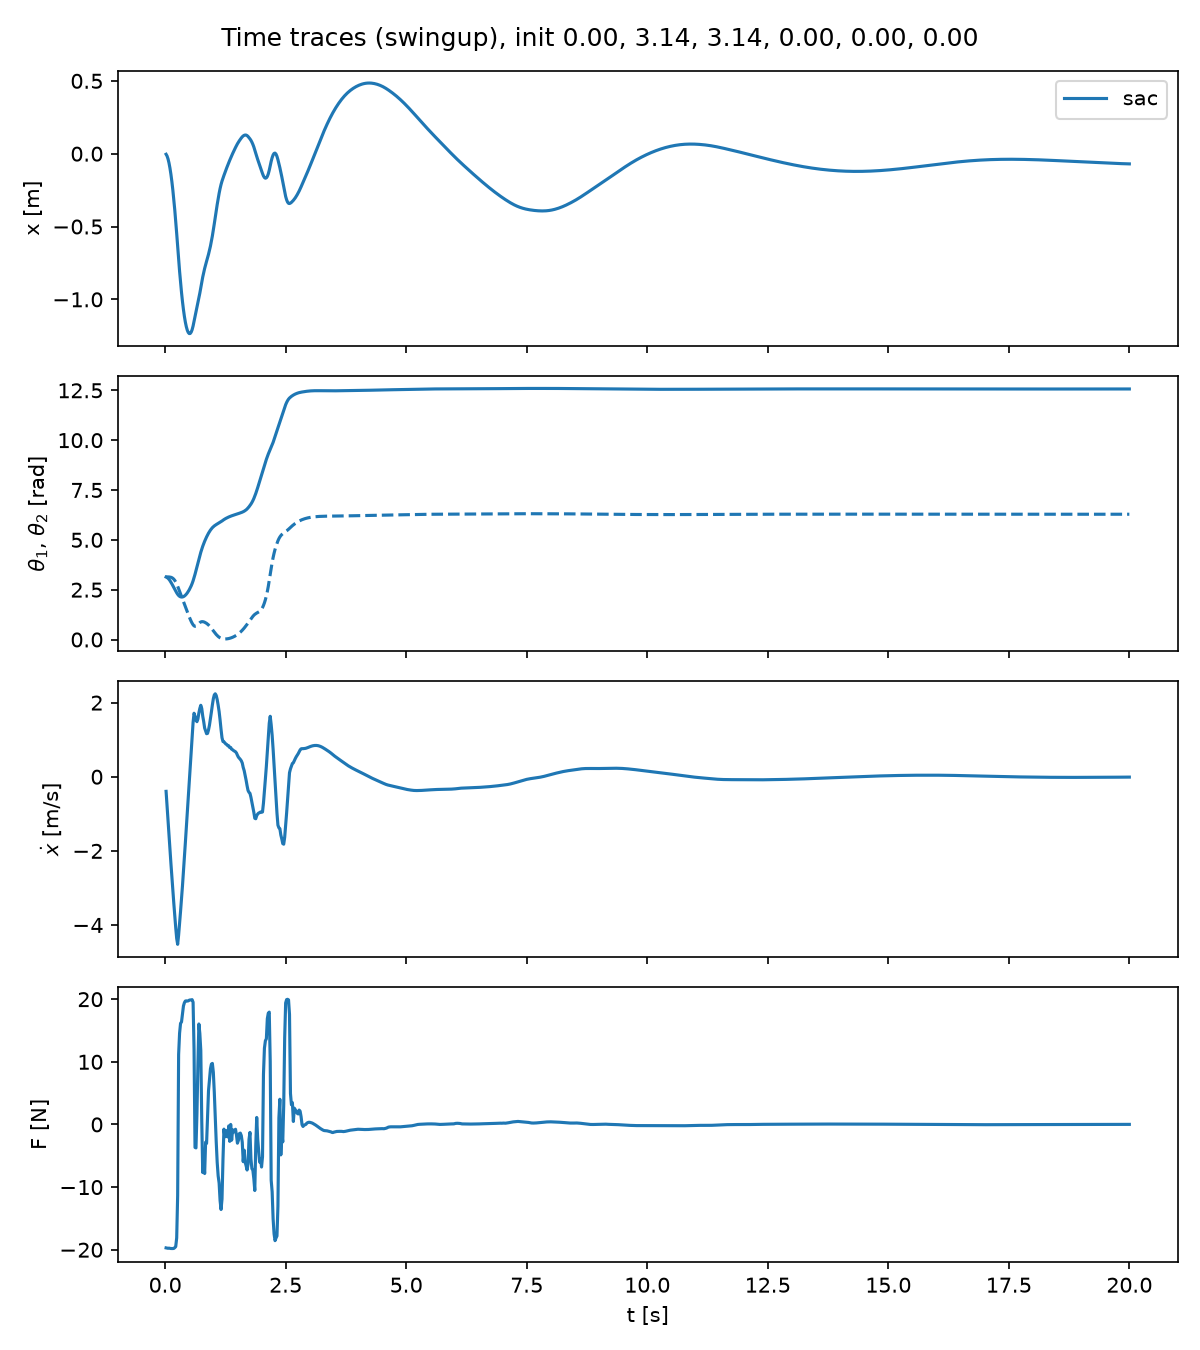
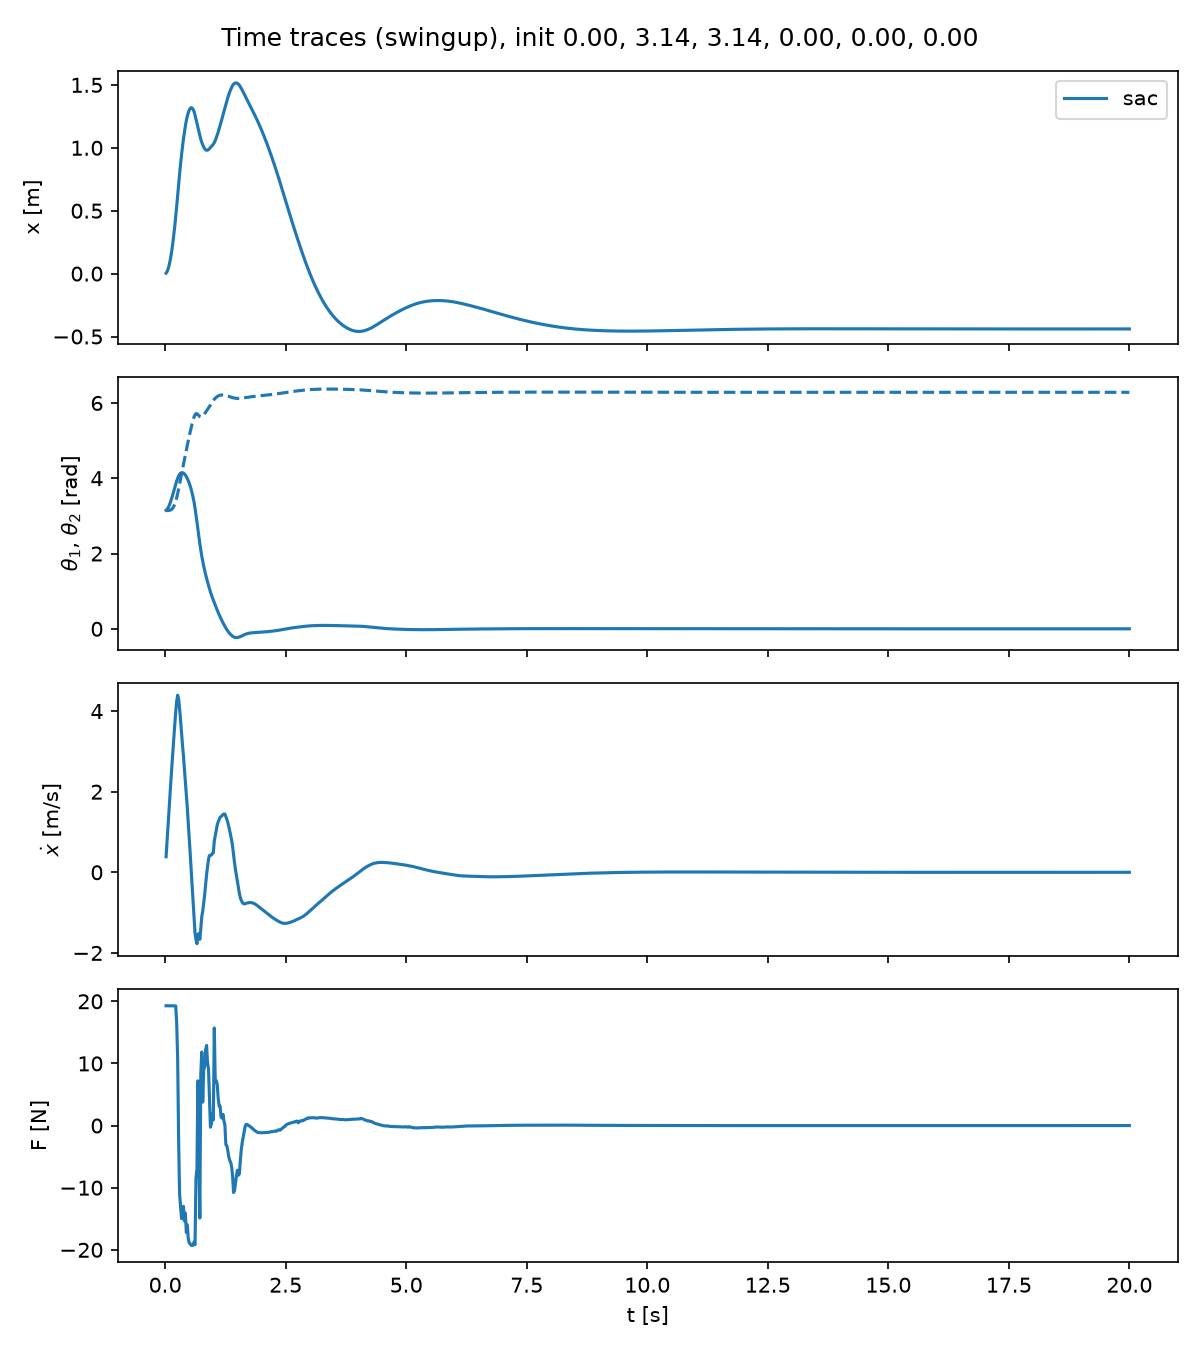
Swing-up solved on all seeds: gSDE (seed 0), gSDE+gradient_steps 2 (seed 2); optimizer loop documented

diff --git a/scripts/train_sac.py b/scripts/train_sac.py
@@ -49,6 +49,9 @@ def main() -> None:
     parser.add_argument("--timesteps", type=int, default=None)
     parser.add_argument("--seed", type=int, default=0)
     parser.add_argument("--randomize", action="store_true")
+    parser.add_argument("--use-sde", action="store_true", help="gSDE exploration (use with SAC)")
+    parser.add_argument("--target-entropy", type=float, default=None, help="override SAC entropy target (auto by default)")
+    parser.add_argument("--gradient-steps", type=int, default=1, help="optimizer updates per env step (update-to-data ratio)")
     parser.add_argument("--velocity-penalty", type=float, default=None)
     parser.add_argument("--episode-steps", type=int, default=None)
     parser.add_argument("--init-from", type=str, default=None, help="checkpoint dir to fine-tune from (model.zip + vecnormalize.pkl)")
@@ -81,15 +84,22 @@ def main() -> None:
         )
     else:
         vec_env = VecNormalize(SubprocVecEnv(env_fns, start_method="spawn"))
-        model = SAC(
-            "MlpPolicy",
-            vec_env,
+        sac_kwargs = dict(
+            policy="MlpPolicy",
+            env=vec_env,
             seed=args.seed,
             device="cpu",
             policy_kwargs=dict(net_arch=NET_ARCH),
             tensorboard_log=str(pathlib.Path("results/tb")),
             verbose=1,
         )
+        if args.use_sde:
+            sac_kwargs.update(use_sde=True, use_sde_at_warmup=True, sde_sample_freq=10)
+        if args.target_entropy is not None:
+            sac_kwargs.update(target_entropy=args.target_entropy)
+        if args.gradient_steps != 1:
+            sac_kwargs.update(gradient_steps=args.gradient_steps)
+        model = SAC(**sac_kwargs)
 
     eval_env = VecNormalize(
         DummyVecEnv([make_env_fn(args.task, args.seed + 1000, 0, False, args.velocity_penalty, args.episode_steps)]),

diff --git a/README.md b/README.md
@@ -96,21 +96,46 @@ Training took ~7 min per seed on an M4 Pro (CPU only, 8 SubprocVecEnv workers,
   noise, inherits the same sensitivity. Robustness to noise would need noise
   injected during training (or a higher R for LQR).
 - *Swing-up* (1000-step / 20 s task, success = both |theta| < 0.1 rad sustained
-  2 s and no early termination): **seed 1 solves it completely — 100% success
-  over 100 episodes, mean time to upright 3.4 s** (acceptance bar 50%, stretch
-  90%). Seeds 0 and 2 got stuck in a partial-credit local optimum: they park
-  the top rod upright while the bottom rod keeps rotating (mean |theta2| ~ 0.9
-  rad, earning ~0.6-0.7 reward per step without ever holding both rods still).
-  The spec's fallback ladder was applied to both failing seeds and none escaped
-  that optimum: (1) 2000-step episodes + velocity penalty 0.001 -> 0.0002
-  (returns rose to 1402/2000 but wagging got *cheaper* — still 0% strict
-  success), (2) velocity penalty 0.004 to punish wagging (489 return, 0%),
-  (3) fine-tuning from the balance policy for 1.5M steps (384 return, 0%).
-  Only gSDE / a larger entropy coefficient remain untried. Net: 1 of 3 seeds
-  fully solves swing-up; `traces_swingup.png` and
-  `results/videos/swingup_seed1_swingup.gif` show the solving policy.
-  Reproduce with `scripts/run_seeds.sh swingup` (~25 min for 3 seeds in
-  parallel on an M4 Pro).
+  2 s and no early termination): **all three seeds now succeed at 100%**:
+
+  | Seed | Optimiser | Success | Return | Time to upright |
+  |---|---|---|---|---|
+  | 0 | SAC + gSDE | 100% | 896 | 3.58 s |
+  | 1 | SAC (vanilla) | 100% | 890 | 3.42 s |
+  | 2 | SAC + gSDE + gradient_steps 2 | 100% | 933 | 2.58 s |
+
+  Getting there took an optimizer-tuning loop, because vanilla SAC lands 2 of 3
+  seeds in a partial-credit local optimum: park the top rod upright while the
+  bottom rod keeps rotating (~0.65 reward/step without ever holding both
+  still). What was tried on the failing seeds (all standard 20 s task, 2M
+  steps unless noted):
+
+  | Variant | Seed 0 | Seed 2 |
+  |---|---|---|
+  | vanilla SAC (baseline) | 0% | 0% |
+  | 2000-step episodes + velocity penalty 0.0002 | 0% | 0% |
+  | velocity penalty 0.004 (punish wagging) | — | 0% |
+  | fine-tune from balance policy, 1.5M | — | 0% |
+  | target_entropy = 0 | 100% | 0% |
+  | **gSDE** (sde_sample_freq 10) | **100%** | 0% (642 return, still climbing) |
+  | gSDE, 3M steps | — | 100% (904) |
+  | gSDE + target_entropy 0.5 | — | 0% (185) |
+  | **gSDE + gradient_steps 2 (2x update-to-data)** | — | **100% (933, best agent)** |
+  | gSDE + target_entropy 0.5 + gradient_steps 2 | — | 0% (528) |
+
+  Conclusions: the failure was an *exploration/optimization* problem, not a
+  reward problem — every reward-shaping change failed, while gSDE's
+  temporally-correlated noise (sustained energetic swings) plus a doubled
+  update-to-data ratio (faster value propagation out of the local optimum)
+  solved it within the original budget. Excess entropy (target 0.5) hurt:
+  it never commits. Traces in `traces_swingup.png`; GIFs per seed in
+  `results/videos/` (e.g. `swingup_seed2_sdeg2_swingup.gif`).
+  Reproduce the winning configs:
+
+  ```bash
+  caffeinate -i uv run python scripts/train_sac.py --task swingup --seed 0 --use-sde
+  caffeinate -i uv run python scripts/train_sac.py --task swingup --seed 2 --use-sde --gradient-steps 2
+  ```
 
 Plots: `learning_curves_balance.png`, `roa_balance.png`, `traces_balance.png`,
 `robustness_*.png`. Episode GIFs in `results/videos/`.
